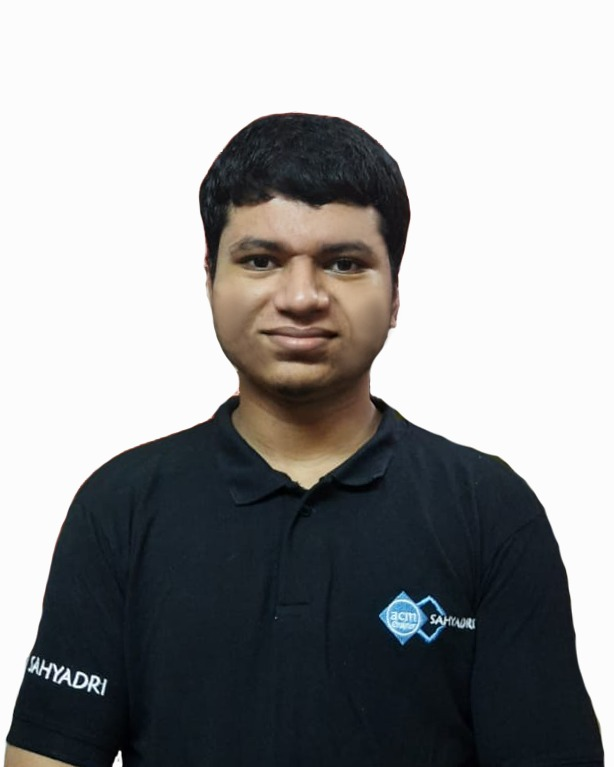
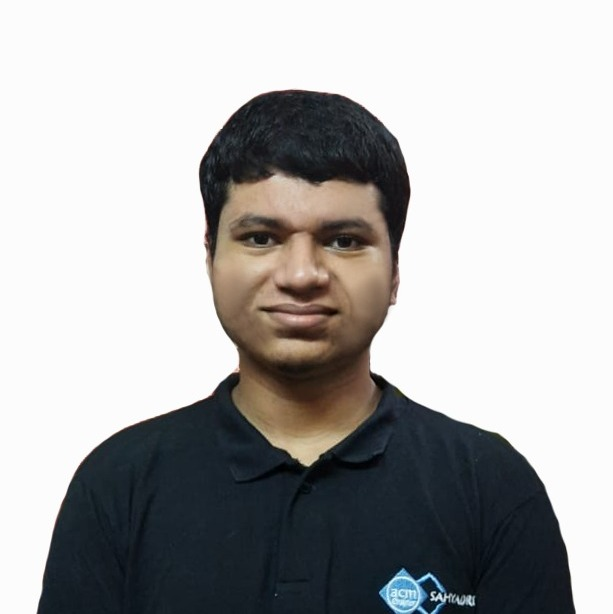
fixed images

Changed region(s): [[0.0, 0.1547, 0.9918, 1.0], [0.6199, 0.9283, 0.7749, 1.0], [0.155, 0.9283, 0.217, 1.0]]

diff --git a/main.js b/main.js
@@ -1,3 +1,4 @@
+//add your info at the end of this list
 let contributers=[
     {
         "name":"Likhith RK",
@@ -36,7 +37,7 @@ let contributers=[
     {
         "name":"Vrashank Rao M",
         "college":"SCEM",
-        "image":"images/vrashank.jpg",
+        "image":"images/vrashankrao.jpeg",
         "github":"https://github.com/VrashankRao",
         "linkedin":"https://www.linkedin.com/in/vrashank-rao-m-44b37a168/",
         "instagram":"https://www.instagram.com/vrashankrao/?hl=en"
@@ -45,7 +46,7 @@ let contributers=[
 
         "name":"Swasthik C Nayak",
         "college":"MITM",
-        "image":"images/swasthik.png",
+        "image":"images/swasthik.jpg",
         "github":"https://github.com/swasthikcnayak",
         "linkedin":"https://www.linkedin.com/in/swasthikcnayak",
         "instagram":"https://instagram.com/__swasthik_"
@@ -71,6 +72,9 @@ let contributers=[
 
 
     
+
+
+
 
 
 

diff --git a/index.html b/index.html
@@ -2,10 +2,6 @@
 <html lang="en">
 	<head>
 		<meta charset="utf-8">
-		<!-- 
-        Awesome Template
-        http://www.templatemo.com/preview/templatemo_450_awesome
-        -->
 		<title>ACMS Hacktoberfest</title>
 		<meta name="keywords" content="">
 		<meta name="description" content="">

diff --git a/css/style.css b/css/style.css
@@ -296,7 +296,7 @@ header .social-icon li a
 #team .team-wrapper:hover
 	{
 		cursor: pointer;
-		opacity: 0.4;
+		opacity: 0.9;
 		bottom: 4px;
 	}
 #team .team-wrapper .team-des

diff --git a/README.md b/README.md
@@ -51,6 +51,7 @@ let contributers=[
 }
 ```
 4. Put your image with the name specified in "image" : "images/YOUR_NAME.[jpg/png]" into images folder
+   Image must be in Square format
 
 5. Add your name in Contributers.txt
 
